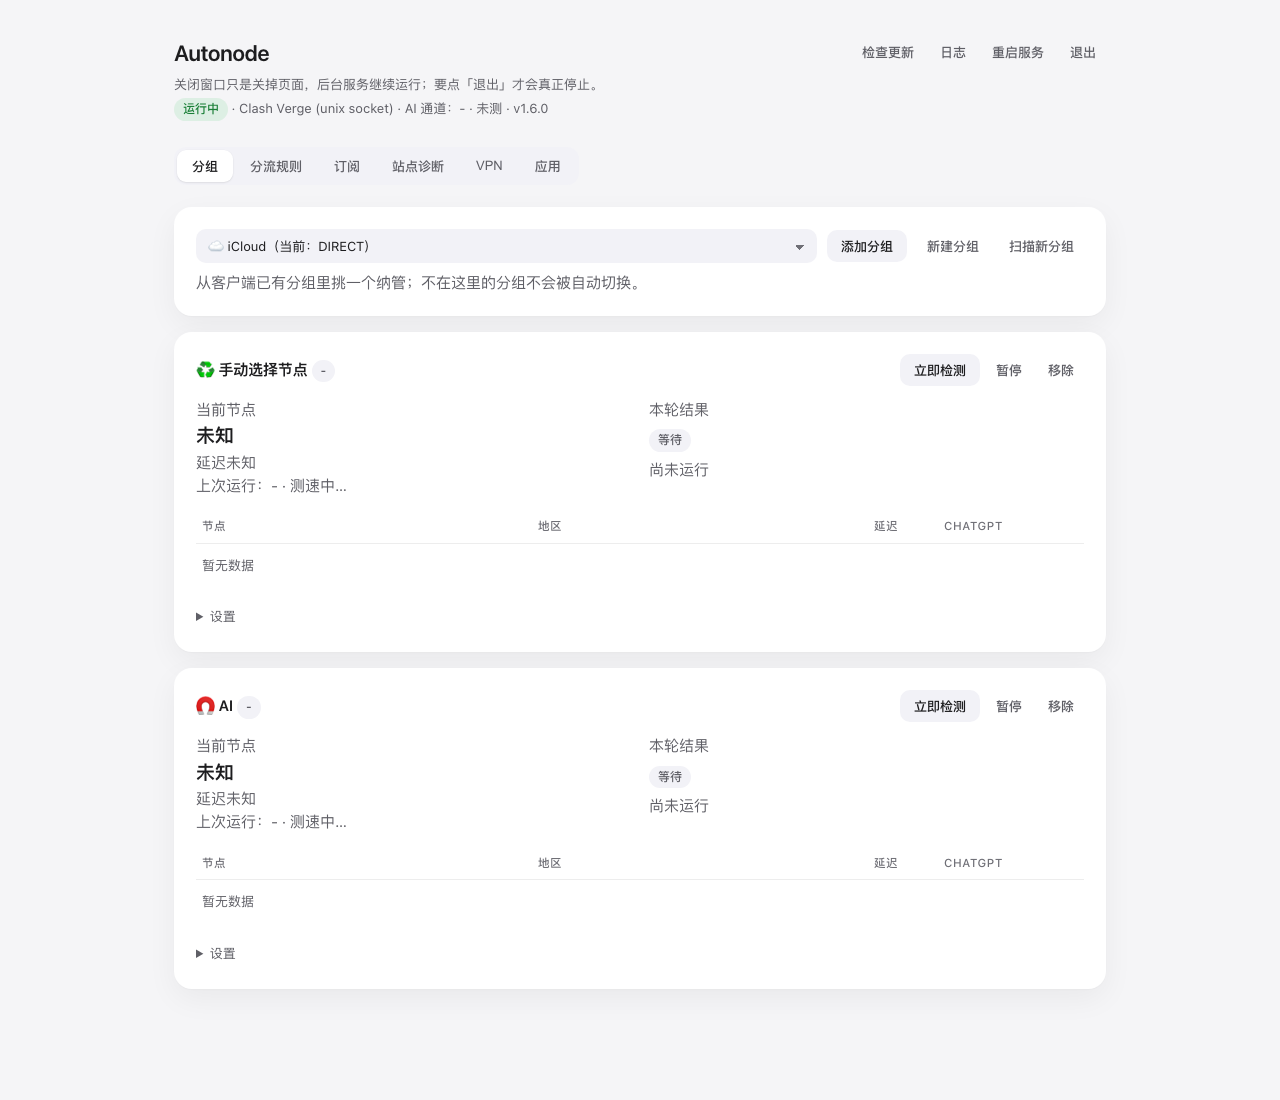
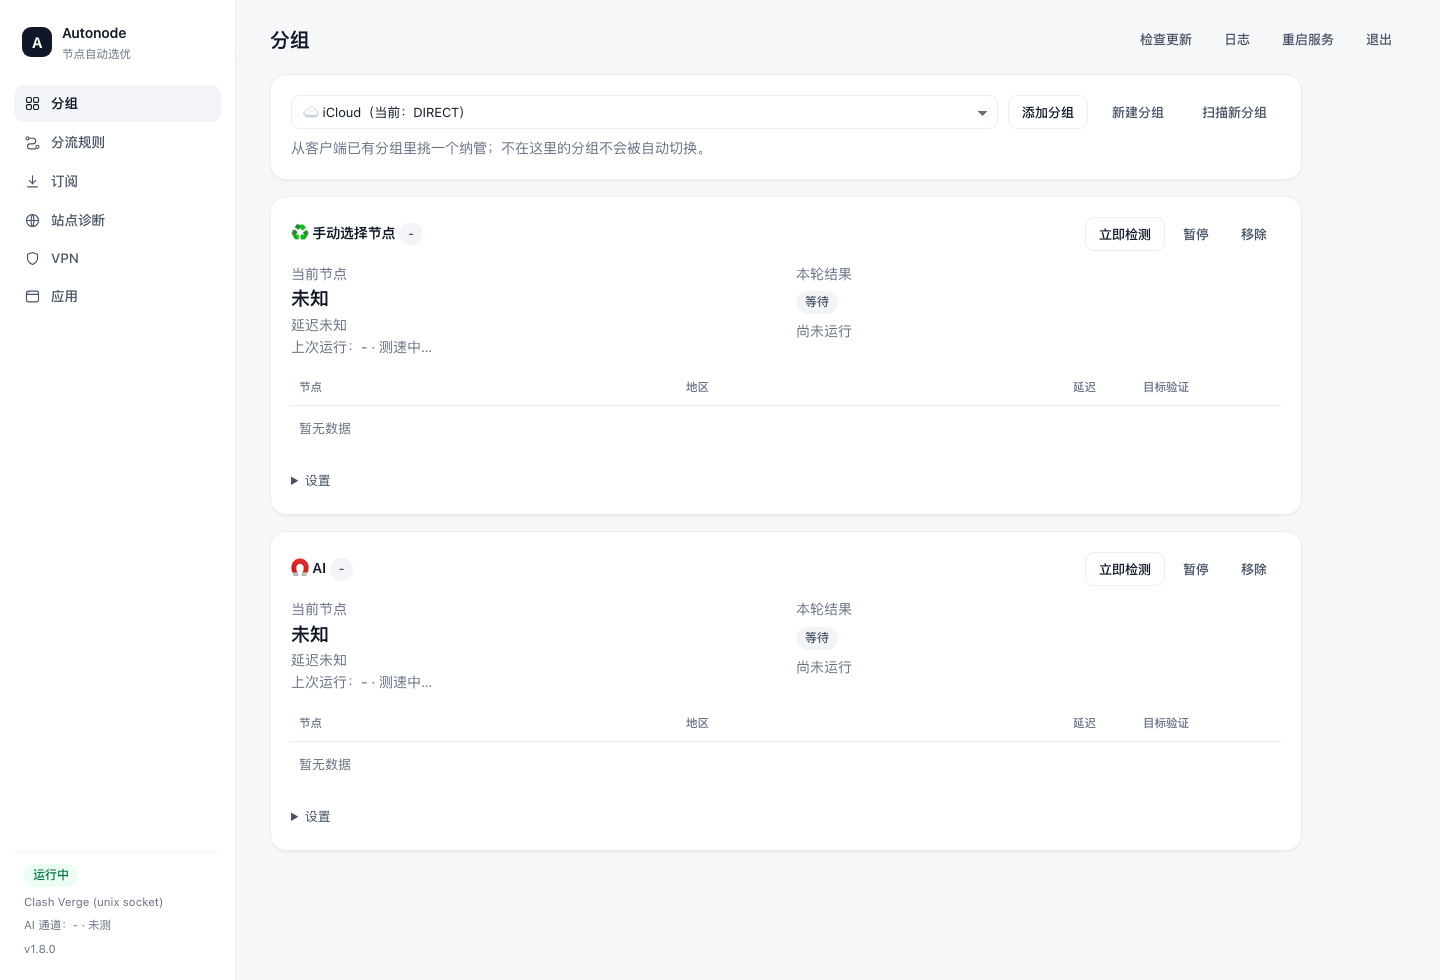
style: 仪表盘式布局（侧边栏 + 顶栏 + KPI 卡片），对齐参考设计

diff --git a/autonode.py b/autonode.py
@@ -40,7 +40,7 @@ import webbrowser
 from datetime import datetime
 from http.server import BaseHTTPRequestHandler, ThreadingHTTPServer
 
-VERSION = "1.7.0"
+VERSION = "1.8.0"
 
 BASE_DIR = os.path.expanduser("~/.config/autonode")
 CONFIG_FILE = os.path.join(BASE_DIR, "config.json")
@@ -1531,148 +1531,200 @@ PAGE = r"""<!doctype html>
 <title>Autonode</title>
 <style>
 :root{
-  --bg:#f5f5f7;
-  --surface:#ffffff;
-  --surface-2:#f2f2f7;
-  --surface-3:#e9e9ee;
-  --text:#1d1d1f;
-  --text-2:#5f5f66;
-  --text-3:#6f6f76;
-  --line:rgba(0,0,0,.07);
-  --line-soft:rgba(0,0,0,.04);
-  --accent:#0071e3;
-  --ok:#1a7f37;
-  --warn:#8a5a00;
-  --bad:#c62828;
-  --radius:18px;
-  --shadow:0 1px 2px rgba(0,0,0,.03), 0 10px 30px rgba(0,0,0,.05);
+  --page:#f6f7f9; --card:#ffffff; --side:#ffffff;
+  --line:#eceef2; --line-soft:#f3f5f8;
+  --text:#101828; --text-2:#475467; --text-3:#667085;
+  --accent:#2563eb;
+  --ok:#067647; --ok-bg:#ecfdf3;
+  --warn:#b54708; --warn-bg:#fffaeb;
+  --bad:#b42318; --bad-bg:#fef3f2;
+  --radius:16px;
+  --shadow:0 1px 2px rgba(16,24,40,.04),0 1px 3px rgba(16,24,40,.03);
 }
 *{box-sizing:border-box}
 html,body{height:100%}
-body{
-  margin:0;background:var(--bg);color:var(--text);
-  font:15px/1.55 -apple-system,BlinkMacSystemFont,"SF Pro Text","PingFang SC",sans-serif;
-  -webkit-font-smoothing:antialiased;text-rendering:optimizeLegibility;
-}
-.wrap{max-width:980px;margin:0 auto;padding:36px 24px 90px}
-h1{font-size:22px;font-weight:600;letter-spacing:-.015em;margin:0 0 4px}
-.sub{color:var(--text-2);font-size:13px}
-.muted{color:var(--text-2)}
-.mono{font-family:ui-monospace,SFMono-Regular,"SF Mono",Menlo,monospace;font-size:12.5px}
-.big{font-size:19px;font-weight:600;letter-spacing:-.01em;word-break:break-all}
-.row{display:flex;gap:10px;flex-wrap:wrap;align-items:center}
-.grid{display:grid;grid-template-columns:1fr 1fr;gap:18px}
-@media(max-width:760px){.grid{grid-template-columns:1fr}}
+body{margin:0;background:var(--page);color:var(--text);
+  font:14px/1.55 -apple-system,BlinkMacSystemFont,"SF Pro Text","PingFang SC",sans-serif;
+  -webkit-font-smoothing:antialiased}
+a{color:inherit}
 
-/* 顶栏 */
-.hd{display:flex;justify-content:space-between;align-items:flex-start;gap:16px;flex-wrap:wrap;margin-bottom:26px}
-.hd .row{gap:6px}
+/* 外壳 */
+.shell{display:grid;grid-template-columns:236px minmax(0,1fr);min-height:100vh}
+.side{background:var(--side);border-right:1px solid var(--line);padding:20px 14px;
+  display:flex;flex-direction:column;gap:6px;position:sticky;top:0;height:100vh}
+.brand{display:flex;align-items:center;gap:10px;padding:2px 8px 16px}
+.logo{width:30px;height:30px;border-radius:9px;background:var(--text);color:#fff;
+  display:grid;place-items:center;font-weight:700;font-size:15px;letter-spacing:-.02em}
+.bname{font-weight:600;font-size:14px;letter-spacing:-.01em}
+.bmeta{font-size:11.5px;color:var(--text-3);margin-top:1px}
+.nav{display:flex;flex-direction:column;gap:2px}
+.nav button{display:flex;align-items:center;gap:10px;width:100%;justify-content:flex-start;
+  padding:9px 10px;border:0;border-radius:10px;background:transparent;color:var(--text-2);
+  font-size:13.5px;font-weight:500;cursor:pointer;transition:background .18s,color .18s}
+.nav button svg{width:17px;height:17px;flex:none;stroke:currentColor;fill:none;
+  stroke-width:1.6;stroke-linecap:round;stroke-linejoin:round}
+.nav button:hover{background:#f8f9fb;color:var(--text)}
+.nav button.on{background:#f2f4f7;color:var(--text);font-weight:600}
+.side-foot{margin-top:auto;padding:12px 10px 2px;border-top:1px solid var(--line-soft);
+  display:flex;flex-direction:column;gap:6px;font-size:11.5px;color:var(--text-3)}
+.side-foot .badge{align-self:flex-start}
 
-/* 分段控制（导航） */
-.nav{display:inline-flex;gap:2px;background:var(--surface-2);border-radius:12px;padding:3px;margin-bottom:22px;flex-wrap:wrap}
-.nav button{
-  appearance:none;border:0;background:transparent;color:var(--text-2);
-  padding:7px 15px;border-radius:9px;font-size:13px;font-weight:500;cursor:pointer;
-  transition:background .25s ease,color .25s ease,box-shadow .25s ease;
-}
-.nav button:hover{color:var(--text)}
-.nav button.on{background:var(--surface);color:var(--text);box-shadow:0 1px 2px rgba(0,0,0,.08),0 0 0 .5px rgba(0,0,0,.02)}
+.main{min-width:0;display:flex;flex-direction:column}
+.topbar{display:flex;justify-content:space-between;align-items:center;gap:16px;
+  padding:22px 34px 8px;position:sticky;top:0;z-index:20;
+  background:linear-gradient(var(--page) 72%,rgba(246,247,249,0))}
+.topbar h1{font-size:20px;font-weight:600;letter-spacing:-.015em;margin:0}
+.topbar .row{gap:4px}
+.content{padding:10px 34px 72px;width:100%;max-width:1100px}
 
 /* 卡片 */
-.card{
-  background:var(--surface);border-radius:var(--radius);padding:22px;margin-bottom:16px;
-  box-shadow:var(--shadow);
-  animation:rise .4s cubic-bezier(.2,.7,.3,1) both;
-}
-.card h2{font-size:12px;font-weight:600;letter-spacing:.06em;text-transform:uppercase;color:var(--text-3);margin:0 0 12px}
-
-@keyframes rise{from{opacity:0;transform:translateY(6px)}to{opacity:1;transform:none}}
+.card{background:var(--card);border:1px solid var(--line);border-radius:var(--radius);
+  padding:20px;margin-bottom:16px;box-shadow:var(--shadow);
+  animation:rise .32s cubic-bezier(.2,.7,.3,1) both}
+.card h2{font-size:12.5px;font-weight:600;color:var(--text-3);letter-spacing:.01em;
+  text-transform:none;margin:0 0 12px}
+@keyframes rise{from{opacity:0;transform:translateY(5px)}to{opacity:1;transform:none}}
 @media(prefers-reduced-motion:reduce){.card{animation:none}*{transition:none!important}}
 
+/* KPI */
+.kpis{display:grid;grid-template-columns:repeat(4,minmax(0,1fr));gap:14px;margin-bottom:16px}
+.kpi{background:var(--card);border:1px solid var(--line);border-radius:14px;
+  padding:16px 18px;box-shadow:var(--shadow)}
+.klabel{font-size:12px;color:var(--text-3)}
+.kval{font-size:23px;font-weight:600;letter-spacing:-.02em;margin-top:6px;line-height:1.2}
+.kfoot{font-size:12px;color:var(--text-3);margin-top:6px}
+@media(max-width:1040px){.kpis{grid-template-columns:repeat(2,minmax(0,1fr))}}
+
 /* 按钮 */
-button{
-  appearance:none;border:0;background:var(--surface-2);color:var(--text);
-  border-radius:10px;padding:7px 14px;font-size:13px;font-weight:500;cursor:pointer;
-  transition:background .22s ease,color .22s ease,opacity .22s ease;
-}
-button:hover{background:var(--surface-3)}
-button:active{opacity:.72}
-button.primary{background:var(--accent);color:#fff}
-button.primary:hover{background:#0066cc}
-button.ghost{background:transparent;color:var(--text-2);padding:7px 10px}
-button.ghost:hover{background:var(--surface-2);color:var(--text)}
+button{appearance:none;background:#fff;border:1px solid var(--line);color:var(--text);
+  border-radius:9px;padding:7px 13px;font-size:13px;font-weight:500;cursor:pointer;
+  font-family:inherit;transition:background .18s,border-color .18s,opacity .18s}
+button:hover{background:#f9fafb;border-color:#dfe3e8}
+button:active{opacity:.75}
+button.primary{background:var(--accent);border-color:var(--accent);color:#fff}
+button.primary:hover{background:#1d4ed8;border-color:#1d4ed8}
+button.ghost{background:transparent;border-color:transparent;color:var(--text-2)}
+button.ghost:hover{background:#f2f4f7;color:var(--text)}
 button:disabled{opacity:.45;cursor:default}
 
 /* 表单 */
 label{display:block;margin:12px 0 5px;font-size:12px;color:var(--text-3);font-weight:500}
-input,select{
-  width:100%;background:var(--surface-2);border:1px solid transparent;color:var(--text);
-  border-radius:10px;padding:8px 11px;font-size:13px;font-family:inherit;
-  transition:background .2s ease,border-color .2s ease,box-shadow .2s ease;
-}
+input,select{width:100%;background:#fff;border:1px solid var(--line);color:var(--text);
+  border-radius:9px;padding:8px 11px;font-size:13px;font-family:inherit;
+  transition:border-color .18s,box-shadow .18s}
 input::placeholder{color:var(--text-3)}
-input:focus,select:focus{
-  outline:none;background:var(--surface);border-color:rgba(0,113,227,.45);
-  box-shadow:0 0 0 3.5px rgba(0,113,227,.12);
-}
-select{appearance:none;background-image:linear-gradient(45deg,transparent 50%,var(--text-3) 50%),linear-gradient(135deg,var(--text-3) 50%,transparent 50%);background-position:calc(100% - 16px) 55%,calc(100% - 11px) 55%;background-size:5px 5px,5px 5px;background-repeat:no-repeat;padding-right:30px}
+input:focus,select:focus{outline:none;border-color:#b2c7f7;box-shadow:0 0 0 3px rgba(37,99,235,.10)}
+select{appearance:none;background-image:linear-gradient(45deg,transparent 50%,var(--text-3) 50%),linear-gradient(135deg,var(--text-3) 50%,transparent 50%);
+  background-position:calc(100% - 15px) 56%,calc(100% - 10px) 56%;background-size:5px 5px,5px 5px;
+  background-repeat:no-repeat;padding-right:28px}
 
-/* 状态徽标 */
-.badge{display:inline-block;padding:2px 9px;border-radius:999px;font-size:12px;font-weight:500;background:var(--surface-2);color:var(--text-2)}
-.badge.ok{background:rgba(52,199,89,.12);color:var(--ok)}
-.badge.warn{background:rgba(255,159,10,.14);color:var(--warn)}
-.badge.bad{background:rgba(255,59,48,.12);color:var(--bad)}
+/* 状态 */
+.badge{display:inline-block;padding:2px 9px;border-radius:999px;font-size:12px;
+  font-weight:500;background:#f2f4f7;color:var(--text-2)}
+.badge.ok{background:var(--ok-bg);color:var(--ok)}
+.badge.warn{background:var(--warn-bg);color:var(--warn)}
+.badge.bad{background:var(--bad-bg);color:var(--bad)}
 
 /* 表格 */
 table{width:100%;border-collapse:collapse;font-size:13px}
-th{text-align:left;padding:8px 6px;color:var(--text-3);font-weight:500;font-size:11.5px;letter-spacing:.05em;text-transform:uppercase;border-bottom:1px solid var(--line)}
-td{text-align:left;padding:11px 6px;border-bottom:1px solid var(--line-soft);vertical-align:middle}
+th{text-align:left;padding:9px 8px;color:var(--text-3);font-weight:500;
+  font-size:11.5px;border-bottom:1px solid var(--line)}
+td{text-align:left;padding:12px 8px;border-bottom:1px solid var(--line-soft);vertical-align:middle}
 tr:last-child td{border-bottom:0}
-
-/* 分组卡片头部 */
-.ghd{display:flex;justify-content:space-between;align-items:center;gap:12px;flex-wrap:wrap}
-.ghd .row{gap:6px}
-.gname{font-weight:600;letter-spacing:-.01em}
+tbody tr:hover td{background:#fbfcfd}
 
 /* 其他 */
+.row{display:flex;gap:10px;flex-wrap:wrap;align-items:center}
+.grid{display:grid;grid-template-columns:1fr 1fr;gap:20px}
+@media(max-width:760px){.grid{grid-template-columns:1fr}}
+.muted{color:var(--text-3)}
+.mono{font-family:ui-monospace,SFMono-Regular,"SF Mono",Menlo,monospace;font-size:12.5px}
+.big{font-size:19px;font-weight:600;letter-spacing:-.01em;word-break:break-all}
+.ghd{display:flex;justify-content:space-between;align-items:center;gap:12px;flex-wrap:wrap}
+.ghd .row{gap:4px}
+.gname{font-weight:600;letter-spacing:-.01em}
 .chips{display:flex;flex-wrap:wrap;gap:8px;margin-top:8px}
-.chip{display:flex;align-items:center;gap:6px;background:var(--surface-2);border-radius:10px;padding:6px 10px;font-size:12.5px;color:var(--text);cursor:pointer;user-select:none}
+.chip{display:flex;align-items:center;gap:6px;background:#f8f9fb;border-radius:9px;
+  padding:6px 10px;font-size:12.5px;cursor:pointer;user-select:none}
 .chip input{width:auto;margin:0}
 details summary{cursor:pointer;font-size:13px;color:var(--text-2);margin-top:16px;padding:4px 0}
 details summary:hover{color:var(--text)}
-pre{background:var(--surface-2);border-radius:12px;padding:14px;max-height:60vh;overflow:auto;font-size:12px;line-height:1.5;margin:0;white-space:pre-wrap;color:#333}
+pre{background:#f8f9fb;border-radius:12px;padding:14px;max-height:60vh;overflow:auto;
+  font-size:12px;line-height:1.5;margin:0;white-space:pre-wrap;color:#344054}
 
 /* 弹窗 */
-.modal{position:fixed;inset:0;background:rgba(20,20,22,.28);backdrop-filter:saturate(140%) blur(8px);-webkit-backdrop-filter:saturate(140%) blur(8px);display:flex;align-items:center;justify-content:center;padding:26px;z-index:50;animation:fade .22s ease both}
+.modal{position:fixed;inset:0;background:rgba(16,24,40,.30);
+  backdrop-filter:saturate(130%) blur(6px);-webkit-backdrop-filter:saturate(130%) blur(6px);
+  display:flex;align-items:center;justify-content:center;padding:26px;z-index:60;
+  animation:fade .2s ease both}
 .modal[hidden]{display:none}
-.modal .box{background:var(--surface);border-radius:20px;width:min(880px,100%);max-height:84vh;padding:22px;display:flex;flex-direction:column;gap:12px;box-shadow:0 24px 70px rgba(0,0,0,.22);animation:pop .26s cubic-bezier(.2,.7,.3,1) both}
+.modal .box{background:#fff;border-radius:18px;width:min(880px,100%);max-height:84vh;
+  padding:22px;display:flex;flex-direction:column;gap:12px;
+  box-shadow:0 24px 60px rgba(16,24,40,.22);animation:pop .24s cubic-bezier(.2,.7,.3,1) both}
 @keyframes fade{from{opacity:0}to{opacity:1}}
-@keyframes pop{from{opacity:0;transform:translateY(8px) scale(.985)}to{opacity:1;transform:none}}
+@keyframes pop{from{opacity:0;transform:translateY(6px) scale(.99)}to{opacity:1;transform:none}}
+
+/* 窄屏：侧栏折叠为顶部 */
+@media(max-width:860px){
+  .shell{grid-template-columns:1fr}
+  .side{position:static;height:auto;flex-direction:row;align-items:center;
+    gap:10px;padding:10px 14px;border-right:0;border-bottom:1px solid var(--line);overflow-x:auto}
+  .brand{display:none}
+  .nav{flex-direction:row;gap:4px}
+  .nav button{width:auto;white-space:nowrap;padding:7px 10px}
+  .nav button svg{display:none}
+  .side-foot{display:none}
+  .topbar{padding:16px 18px 6px}
+  .content{padding:8px 18px 56px}
+}
 </style></head>
-<body><div class="wrap">
+<body>
+<div class="shell">
 
-<div class="hd">
-  <div>
-    <h1>Autonode</h1>
-    <div class="sub" style="margin-bottom:4px">关闭窗口只是关掉页面，后台服务继续运行；要点「退出」才会真正停止。</div>
-<div class="sub"><span id="state" class="badge">加载中</span> · <span id="ctl" class="muted"></span> · <span id="aistat" class="muted"></span> · <span class="muted" id="ver"></span></div>
+<aside class="side">
+  <div class="brand">
+    <div class="logo">A</div>
+    <div><div class="bname">Autonode</div><div class="bmeta">节点自动选优</div></div>
   </div>
-  <div class="row">
-    <button id="updatebtn" class="ghost">检查更新</button>
-    <button id="logbtn" class="ghost">日志</button>
-    <button id="restartbtn" class="ghost">重启服务</button>
-    <button id="quitbtn" class="ghost">退出</button>
+  <nav class="nav">
+    <button data-nav="groups" class="on">
+      <svg viewBox="0 0 24 24"><rect x="3.5" y="3.5" width="7" height="7" rx="2"/><rect x="13.5" y="3.5" width="7" height="7" rx="2"/><rect x="3.5" y="13.5" width="7" height="7" rx="2"/><rect x="13.5" y="13.5" width="7" height="7" rx="2"/></svg>
+      分组</button>
+    <button data-nav="routes">
+      <svg viewBox="0 0 24 24"><circle cx="5" cy="6" r="2.2"/><circle cx="19" cy="18" r="2.2"/><path d="M7.2 6h5.3a4 4 0 0 1 0 8h-4a3.5 3.5 0 0 0 0 7h8.3"/></svg>
+      分流规则</button>
+    <button data-nav="sub">
+      <svg viewBox="0 0 24 24"><path d="M12 4v11"/><path d="m7.5 10.5 4.5 4.5 4.5-4.5"/><path d="M5 19.5h14"/></svg>
+      订阅</button>
+    <button data-nav="site">
+      <svg viewBox="0 0 24 24"><circle cx="12" cy="12" r="8.5"/><path d="M3.5 12h17"/><path d="M12 3.5c2.6 2.6 2.6 14.4 0 17-2.6-2.6-2.6-14.4 0-17z"/></svg>
+      站点诊断</button>
+    <button data-nav="vpn">
+      <svg viewBox="0 0 24 24"><path d="M12 3.5 19 6v5.6c0 4-2.9 6.9-7 8.9-4.1-2-7-4.9-7-8.9V6z"/></svg>
+      VPN</button>
+    <button data-nav="apps">
+      <svg viewBox="0 0 24 24"><rect x="3.5" y="4.5" width="17" height="15" rx="3"/><path d="M3.5 9h17"/><circle cx="7" cy="6.8" r=".7" fill="currentColor" stroke="none"/></svg>
+      应用</button>
+  </nav>
+  <div class="side-foot">
+    <span id="state" class="badge">加载中</span>
+    <div id="ctl"></div>
+    <div id="aistat"></div>
+    <div id="ver"></div>
   </div>
-</div>
+</aside>
 
-<div class="nav">
-  <button data-nav="groups" class="on">分组</button>
-  <button data-nav="routes">分流规则</button>
-  <button data-nav="sub">订阅</button>
-  <button data-nav="site">站点诊断</button>
-  <button data-nav="vpn">VPN</button>
-  <button data-nav="apps">应用</button>
-</div>
+<div class="main">
+  <header class="topbar">
+    <h1 id="pagetitle">分组</h1>
+    <div class="row">
+      <button id="updatebtn" class="ghost">检查更新</button>
+      <button id="logbtn" class="ghost">日志</button>
+      <button id="restartbtn" class="ghost">重启服务</button>
+      <button id="quitbtn" class="ghost">退出</button>
+    </div>
+  </header>
+  <div class="content">
 
 <section id="sec-groups">
   <div class="card">
@@ -1753,6 +1805,12 @@ pre{background:var(--surface-2);border-radius:12px;padding:14px;max-height:60vh;
 </section>
 
 <section id="sec-apps" hidden>
+  <div class="kpis">
+    <div class="kpi"><div class="klabel">活跃应用</div><div class="kval" id="k-apps">–</div><div class="kfoot">当前有连接</div></div>
+    <div class="kpi"><div class="klabel">连接总数</div><div class="kval" id="k-conns">–</div><div class="kfoot">内核活动连接</div></div>
+    <div class="kpi"><div class="klabel">下载合计</div><div class="kval" id="k-dl">–</div><div class="kfoot">本会话累计</div></div>
+    <div class="kpi"><div class="klabel">TUN</div><div class="kval" id="k-tun">–</div><div class="kfoot" id="k-tun-foot">—</div></div>
+  </div>
   <div class="card">
     <div class="row" style="justify-content:space-between">
       <div><b>应用分流</b> <span id="apps-badge" class="badge">-</span></div>
@@ -1850,8 +1908,11 @@ pre{background:var(--surface-2);border-radius:12px;padding:14px;max-height:60vh;
 </div>
 
 </div>
+</div>
+</div>
 <script>
 var STATUS=null, CTL={}, ROUTES=[], RT_TARGETS=[], SITE={}, NAV='groups';
+var TITLES = {groups:'分组', routes:'分流规则', sub:'订阅', site:'站点诊断', vpn:'系统 VPN', apps:'应用分流'};
 var PROVIDERS=[];
 
 function loadProviders(){
@@ -1869,6 +1930,7 @@ function get(u){ return fetch(u,{cache:'no-store'}).then(function(r){return r.js
 document.querySelectorAll('[data-nav]').forEach(function(b){
   b.onclick = function(){
     NAV = b.dataset.nav;
+    var pt = el('pagetitle'); if(pt) pt.textContent = TITLES[NAV] || '';
     if(location.hash !== '#' + NAV){ try{ history.replaceState(null,'','#'+NAV); }catch(e){} }
     document.querySelectorAll('[data-nav]').forEach(function(x){ x.classList.toggle('on', x===b); });
     ['groups','routes','sub','site','vpn','apps'].forEach(function(n){ el('sec-'+n).hidden = (n!==NAV); });
@@ -1972,6 +2034,17 @@ function loadApps(){
     el('apps-note').textContent = '进程识别模式 ' + (d.find_process_mode || '-')
       + (d.tun ? ' · 所有应用流量均经过内核' : ' · TUN 关闭时仅走系统代理的应用可见')
       + ' · 共 ' + d.count + ' 个应用';
+
+    var conns = 0, dl = 0;
+    (d.apps || []).forEach(function(a){ conns += a.conns; dl += a.download; });
+    if(el('k-apps')) el('k-apps').textContent = String(d.count);
+    if(el('k-conns')) el('k-conns').textContent = String(conns);
+    if(el('k-dl')) el('k-dl').textContent = fmtBytes(dl);
+    if(el('k-tun')){
+      el('k-tun').textContent = d.tun ? '已开启' : '已关闭';
+      el('k-tun').style.color = d.tun ? 'var(--ok)' : 'var(--warn)';
+    }
+    if(el('k-tun-foot')) el('k-tun-foot').textContent = '进程识别 ' + (d.find_process_mode || '-');
 
     var tb = el('apps-body');
     tb.innerHTML = (d.apps || []).map(function(a){
@@ -2245,7 +2318,7 @@ function groupCard(g){
     + '<div class="muted" data-role="meta">-</div><div class="muted" data-role="last">-</div></div>'
     + '<div><div class="muted">本轮结果</div><div data-role="action" style="margin:6px 0">-</div>'
     + '<div class="muted" data-role="msg">-</div></div></div>'
-    + '<div style="margin-top:12px"><table><thead><tr><th>节点</th><th>地区</th><th style="width:70px">延迟</th><th style="width:84px">ChatGPT</th><th style="width:62px"></th></tr></thead>'
+    + '<div style="margin-top:12px"><table><thead><tr><th>节点</th><th>地区</th><th style="width:70px">延迟</th><th style="width:84px">目标验证</th><th style="width:62px"></th></tr></thead>'
     + '<tbody data-role="cand"></tbody></table></div>'
     + '<details><summary>设置</summary><div class="grid">'
     + '<div><label>检查间隔</label><select data-field="interval_seconds"></select>'
@@ -2420,16 +2493,17 @@ function loadRoutes(){
     ROUTES = d.routes || [];
     RT_TARGETS = d.targets || ['DIRECT'];
     var sel = el('rt-target');
+    var keep = sel.dataset.init ? sel.value : '';
     sel.innerHTML = RT_TARGETS.map(function(t){
       var q=String(t).replace(/&/g,'&amp;').replace(/"/g,'&quot;');
       return '<option value="'+q+'">'+t+'</option>';
     }).join('');
+    if(keep) sel.value = keep;
     renderRoutes(d);
-    if(!sel.dataset.init && STATUS){
-      sel.dataset.init = '1';
-      var ai = (STATUS.groups || []).filter(function(g){ return (g.config.role||'') === 'ai'; })[0];
-      var prefer = ai && ai.config.group;
-      sel.value = (prefer && RT_TARGETS.indexOf(prefer) >= 0) ? prefer : (RT_TARGETS[0] || '');
+    if(!sel.dataset.init){
+      var aiName = RT_TARGETS.filter(function(t){ return /AI$/i.test(t) || /(^|[^A-Za-z])AI([^A-Za-z]|$)/i.test(t); })[0];
+      sel.value = aiName || RT_TARGETS[0] || '';
+      if(STATUS) sel.dataset.init = '1';
     }
   });
 }
